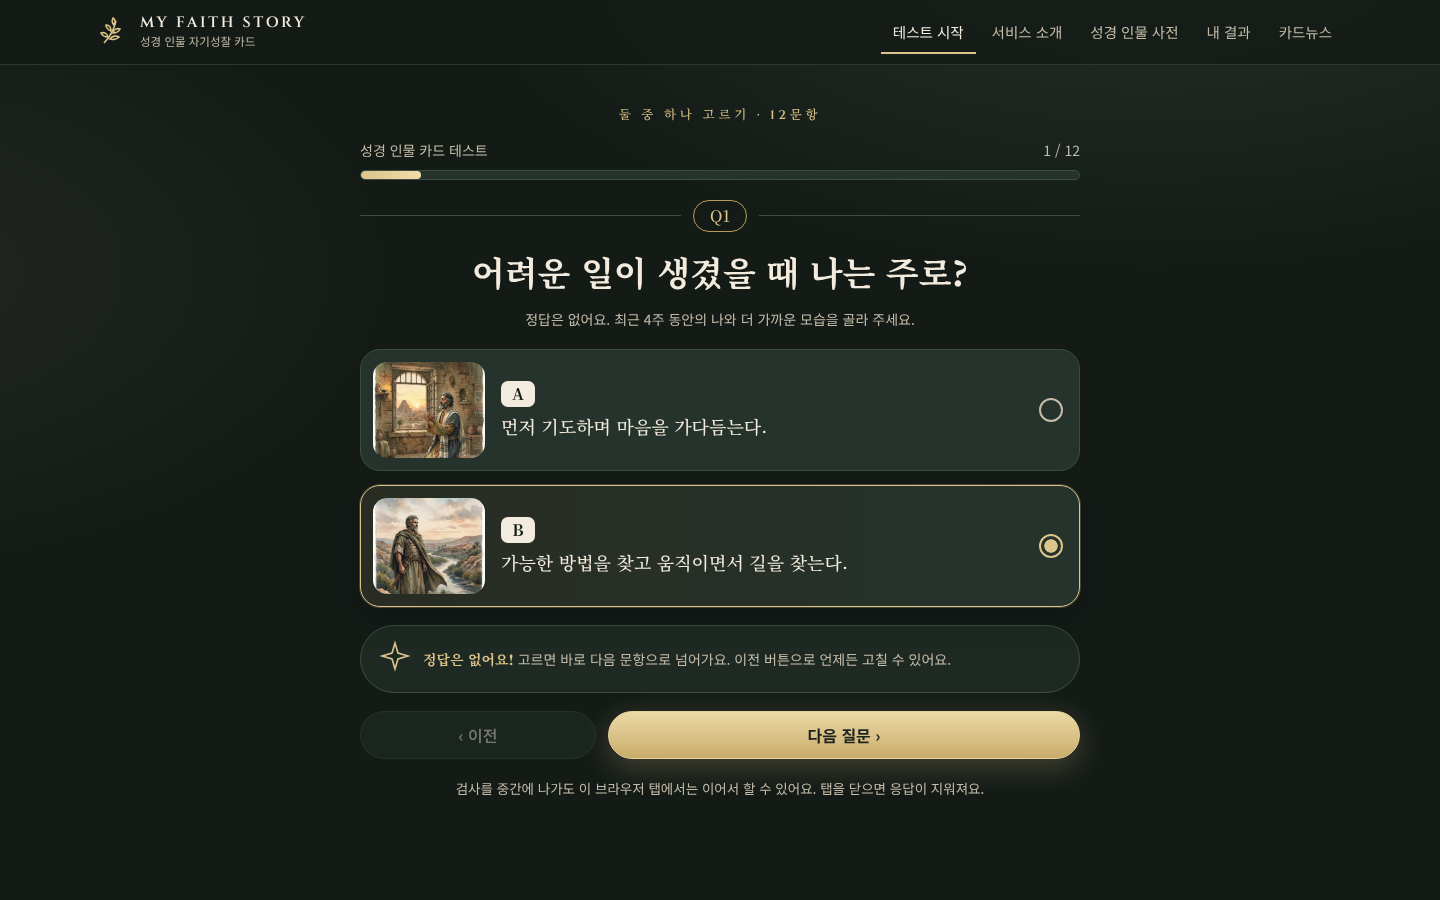
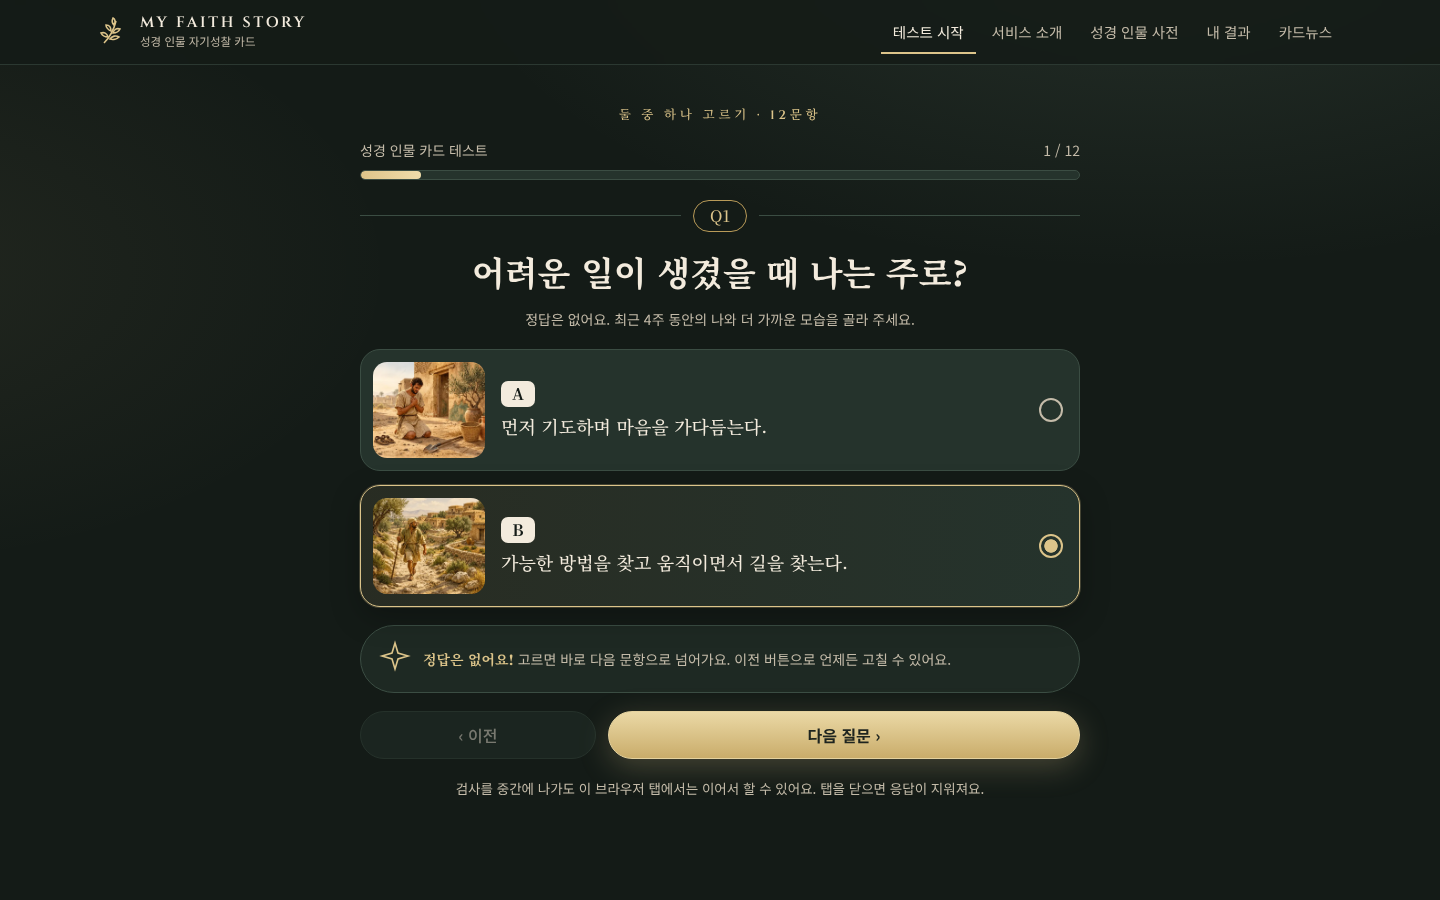
Add 24 dedicated quiz-option illustrations (Canva), verified and applied
- Generated with Canva generate-image (anonymous people, no named characters)
- Exported one image per design (multi-image designs got decorations/text);
  every export matched to its option preview and checked by eye
- 560x420 WebP in public/assets/options, used before the character fallback

Claude-Session: https://claude.ai/code/session_014c9vFgBS4BdK9e3m5zEueQ

Changed region(s): [[0.25, 0.4044, 0.3438, 0.6844]]

diff --git a/hosting/index.html b/hosting/index.html
@@ -122,6 +122,7 @@ h1, h2, h3 { font-family: var(--serif); font-weight: 700; text-wrap: balance; li
 .opt .art { width: 112px; height: 96px; border-radius: 14px; overflow: hidden; background: var(--bg-2); }
 .opt .art img { width: 100%; height: 100%; object-fit: cover; display: block; }
 .opt .art img.art-photo { object-position: 50% 28%; }
+.opt .art img.art-option { object-position: 50% 50%; }
 .opt .k { display: inline-grid; place-items: center; width: 34px; height: 26px; border-radius: 7px; background: var(--ivory); color: var(--bg); font-weight: 700; font-family: var(--serif); margin-bottom: 6px; }
 .opt .t { font-size: 18px; font-family: var(--serif); line-height: 1.45; }
 .opt .dot { width: 24px; height: 24px; border-radius: 50%; border: 2px solid var(--muted); }
@@ -251,7 +252,7 @@ footer.foot { border-top: 1px solid var(--line); margin-top: 40px; padding-block
   <p style="margin:0">결과는 응답 기반의 콘텐츠 비교이며 신앙 수준·구원·인격에 대한 평가가 아닙니다. 인물·사건 데이터는 검수 전 초안입니다. 인물 일러스트는 AI 생성 창작물이며, ‘임시’ 표시가 있는 그림은 교체 예정입니다.</p>
 </div></footer>
 <script>
-window.MFS_PORTRAITS=["nt-peter","ot-abraham","ot-asaph","ot-daniel","ot-david","ot-elijah","ot-elisha","ot-enoch","ot-ezra","ot-gideon","ot-hannah","ot-hezekiah","ot-isaac","ot-jacob","ot-jehoshaphat","ot-jeremiah","ot-job","ot-joseph","ot-joshua","ot-miriam","ot-moses","ot-nehemiah","ot-noah","ot-samuel","ot-solomon"];
+window.MFS_PORTRAITS=["nt-peter","ot-abraham","ot-asaph","ot-daniel","ot-david","ot-elijah","ot-elisha","ot-enoch","ot-ezra","ot-gideon","ot-hannah","ot-hezekiah","ot-isaac","ot-jacob","ot-jehoshaphat","ot-jeremiah","ot-job","ot-joseph","ot-joshua","ot-miriam","ot-moses","ot-nehemiah","ot-noah","ot-samuel","ot-solomon"];window.MFS_OPTION_IMAGES=["Q01-A","Q01-B","Q02-A","Q02-B","Q03-A","Q03-B","Q04-A","Q04-B","Q05-A","Q05-B","Q06-A","Q06-B","Q07-A","Q07-B","Q08-A","Q08-B","Q09-A","Q09-B","Q10-A","Q10-B","Q11-A","Q11-B","Q12-A","Q12-B"];
 ;
 /* MY FAITH STORY — content data (v6.0). Shared by the browser app and Node QA scripts.
  * All character/event entries are DRAFTS: scripture references and summaries are the
@@ -1932,7 +1933,8 @@ window.MFS_PORTRAITS=["nt-peter","ot-abraham","ot-asaph","ot-daniel","ot-david",
   }
 
   const optArt = new Map();
-  // Illustration for each answer option, picked by mood (praying, resting, reading…). Decorative only:
+  // Dedicated option illustrations (assets/options/Qnn-X.webp, anonymous people) win when present; until then
+  // a generated character illustration picked by mood (praying, resting, reading…) is shown. Decorative only:
   // no name is shown and the matching engine never uses this table, so it is not an option→character mapping.
   const OPTION_ART = {
     'Q01-A': 'ot-daniel', 'Q01-B': 'ot-joshua', 'Q02-A': 'ot-solomon', 'Q02-B': 'ot-noah',
@@ -1974,6 +1976,7 @@ window.MFS_PORTRAITS=["nt-peter","ot-abraham","ot-asaph","ot-daniel","ot-david",
       </div></section>`;
     $app.querySelectorAll('img[data-art]').forEach(img => {
       const k = img.dataset.art, pid = OPTION_ART[k];
+      if ((window.MFS_OPTION_IMAGES || []).includes(k)) { img.src = 'assets/options/' + k + '.webp'; img.classList.add('art-photo', 'art-option'); return; }
       if (pid && RENDER.hasPortrait(pid)) { img.src = RENDER.portraitSrc(pid); img.classList.add('art-photo'); return; }
       if (!optArt.has(k)) optArt.set(k, RENDER.sceneURL('opt-' + k, 224, 192)); img.src = optArt.get(k);
     });

diff --git a/dist/index.html b/dist/index.html
@@ -240,7 +240,7 @@ footer.foot { border-top: 1px solid var(--line); margin-top: 40px; padding-block
   <p style="margin:0">결과는 응답 기반의 콘텐츠 비교이며 신앙 수준·구원·인격에 대한 평가가 아닙니다. 인물·사건 데이터는 검수 전 초안입니다. 인물 일러스트는 AI 생성 창작물이며, ‘임시’ 표시가 있는 그림은 교체 예정입니다.</p>
 </div></footer>
 <script>
-window.MFS_PORTRAITS=["nt-peter","ot-abraham","ot-asaph","ot-daniel","ot-david","ot-elijah","ot-elisha","ot-enoch","ot-ezra","ot-gideon","ot-hannah","ot-hezekiah","ot-isaac","ot-jacob","ot-jehoshaphat","ot-jeremiah","ot-job","ot-joseph","ot-joshua","ot-miriam","ot-moses","ot-nehemiah","ot-noah","ot-samuel","ot-solomon"];window.MFS_OPTION_IMAGES=[];
+window.MFS_PORTRAITS=["nt-peter","ot-abraham","ot-asaph","ot-daniel","ot-david","ot-elijah","ot-elisha","ot-enoch","ot-ezra","ot-gideon","ot-hannah","ot-hezekiah","ot-isaac","ot-jacob","ot-jehoshaphat","ot-jeremiah","ot-job","ot-joseph","ot-joshua","ot-miriam","ot-moses","ot-nehemiah","ot-noah","ot-samuel","ot-solomon"];window.MFS_OPTION_IMAGES=["Q01-A","Q01-B","Q02-A","Q02-B","Q03-A","Q03-B","Q04-A","Q04-B","Q05-A","Q05-B","Q06-A","Q06-B","Q07-A","Q07-B","Q08-A","Q08-B","Q09-A","Q09-B","Q10-A","Q10-B","Q11-A","Q11-B","Q12-A","Q12-B"];
 ;
 /* MY FAITH STORY — content data (v6.0). Shared by the browser app and Node QA scripts.
  * All character/event entries are DRAFTS: scripture references and summaries are the

diff --git a/dist/standalone.html b/dist/standalone.html
@@ -242,7 +242,7 @@ footer.foot { border-top: 1px solid var(--line); margin-top: 40px; padding-block
   <p style="margin:0">결과는 응답 기반의 콘텐츠 비교이며 신앙 수준·구원·인격에 대한 평가가 아닙니다. 인물·사건 데이터는 검수 전 초안입니다. 인물 일러스트는 AI 생성 창작물이며, ‘임시’ 표시가 있는 그림은 교체 예정입니다.</p>
 </div></footer>
 <script>
-window.MFS_PORTRAITS=["nt-peter","ot-abraham","ot-asaph","ot-daniel","ot-david","ot-elijah","ot-elisha","ot-enoch","ot-ezra","ot-gideon","ot-hannah","ot-hezekiah","ot-isaac","ot-jacob","ot-jehoshaphat","ot-jeremiah","ot-job","ot-joseph","ot-joshua","ot-miriam","ot-moses","ot-nehemiah","ot-noah","ot-samuel","ot-solomon"];window.MFS_OPTION_IMAGES=[];
+window.MFS_PORTRAITS=["nt-peter","ot-abraham","ot-asaph","ot-daniel","ot-david","ot-elijah","ot-elisha","ot-enoch","ot-ezra","ot-gideon","ot-hannah","ot-hezekiah","ot-isaac","ot-jacob","ot-jehoshaphat","ot-jeremiah","ot-job","ot-joseph","ot-joshua","ot-miriam","ot-moses","ot-nehemiah","ot-noah","ot-samuel","ot-solomon"];window.MFS_OPTION_IMAGES=["Q01-A","Q01-B","Q02-A","Q02-B","Q03-A","Q03-B","Q04-A","Q04-B","Q05-A","Q05-B","Q06-A","Q06-B","Q07-A","Q07-B","Q08-A","Q08-B","Q09-A","Q09-B","Q10-A","Q10-B","Q11-A","Q11-B","Q12-A","Q12-B"];
 ;
 /* MY FAITH STORY — content data (v6.0). Shared by the browser app and Node QA scripts.
  * All character/event entries are DRAFTS: scripture references and summaries are the

diff --git a/scripts/match-canva-exports.py b/scripts/match-canva-exports.py
@@ -1,0 +1,23 @@
+#!/usr/bin/env python3
+"""Map exported Canva pages back to option keys by comparing each page with the small preview
+returned at generation time (assets-src/options/canva-media.txt: key mediaId previewPath).
+usage: match-canva-exports.py page1.jpg page2.jpg ...  -> writes assets-src/options/<key>.jpg"""
+import sys, shutil
+from PIL import Image, ImageOps
+def vec(p):
+    im = ImageOps.fit(Image.open(p).convert('L'), (32, 24), Image.LANCZOS)
+    px = list(im.getdata()); m = sum(px) / len(px)
+    return [x - m for x in px]
+def dist(a, b): return sum((x - y) ** 2 for x, y in zip(a, b))
+refs = {}
+for line in open('assets-src/options/canva-media.txt'):
+    k, _, p = line.split(); refs[k] = vec(p)
+used = set()
+for page in sys.argv[1:]:
+    v = vec(page)
+    ranked = sorted((dist(v, r), k) for k, r in refs.items())
+    best, second = ranked[0], ranked[1]
+    k = best[1]; ratio = second[0] / max(best[0], 1)
+    flag = '' if ratio > 1.5 and k not in used else '  <-- CHECK'
+    print(f'{page} -> {k} (margin x{ratio:.1f}){flag}')
+    used.add(k); shutil.copyfile(page, f'assets-src/options/{k}.jpg')

diff --git a/CLAUDE.md b/CLAUDE.md
@@ -9,6 +9,7 @@
 - Rarity N/R/SR/SSR = design rarity of signatureKey (skill | secondary family | event context) over the 4,096 equal-weight combos. Not faith level, not probability. Never hand out rarity by "good" answers. Regenerate with `npm run generate:rarity` after any data change.
 - Never hardcode mock scores (베드로 88 / 다윗 81 / 모세 74).
 - Do not claim generated illustrations, human content review, deployment or tests that did not happen. Portraits: 25 generated (public/assets/characters/*.webp, list baked by build), the rest show a placeholder (watercolor landscape + name medallion, labelled 일러스트 준비 중). Add new portraits via scripts/fetch-portraits.sh + WebP conversion, then `npm run build`.
+- Quiz option art: 24 dedicated Canva-generated illustrations (anonymous people; public/assets/options/Qnn-X.webp, list baked by build). Canva exports can come back with added text — check every export by eye before use.
 - Quiz: tapping an option auto-advances (user request, overrides spec §3).
 - Hosting: Firebase project my-faith-story → https://my-faith-story.web.app. `npm run build:hosting` writes hosting/ (committed; CI deploys it). Share links = /share/<id>-e<n> static pages with OG tags. Rebuild hosting/ after any data or portrait change.
 - Workflow: `npm run generate:rarity && npm run validate:data && npm test && npm run test:exhaustive && npm run build && npm run test:e2e` (= `npm run qa`).

diff --git a/docs/IMPLEMENTATION_STATUS.md b/docs/IMPLEMENTATION_STATUS.md
@@ -9,6 +9,7 @@
 
 ## 미완료 / 차단
 - 인물 초상 **25/100장 생성·적용** (Figma generate_image, gemini-3.1-flash-lite-image, 928×1152 → 720×900 WebP). 원본 `assets-src/characters/`, 적용본 `public/assets/characters/`. 이후 Figma AI 크레딧 소진(2026-11-25 00:00 UTC 재충전) → 나머지 75명과 사건 장면은 임시 이미지. Canva는 이 환경에서 160×199 미리보기만 받을 수 있어 사용하지 않음
+- 선택지 전용 일러스트 24/24장 적용 (Canva generate-image → 단일 이미지 디자인 → JPG 내보내기 → `assets-src/options/`, 560×420 WebP). 이름 없는 평범한 사람으로 그려 결과를 암시하지 않음. 여러 장을 한 디자인에 넣으면 Canva가 장식·문구를 추가해서, 한 장씩 처리하고 모든 이미지를 눈으로 확인함 (Q07-B는 문구가 붙어 다시 생성)
 - 문항 선택 시 바로 다음 문항으로 이동 (사용자 요청으로 명세 §3 “선택 후 다음 버튼”을 변경)
 - 사건 프로필 268개 (목표 약 300 미달 — 근거 있는 사건만 추가)
 - 대표 후보 80명 중 4,096 조합에서 대표로 나오는 인물 67명 (v6.0 38명), 최다 비율 7.3%
